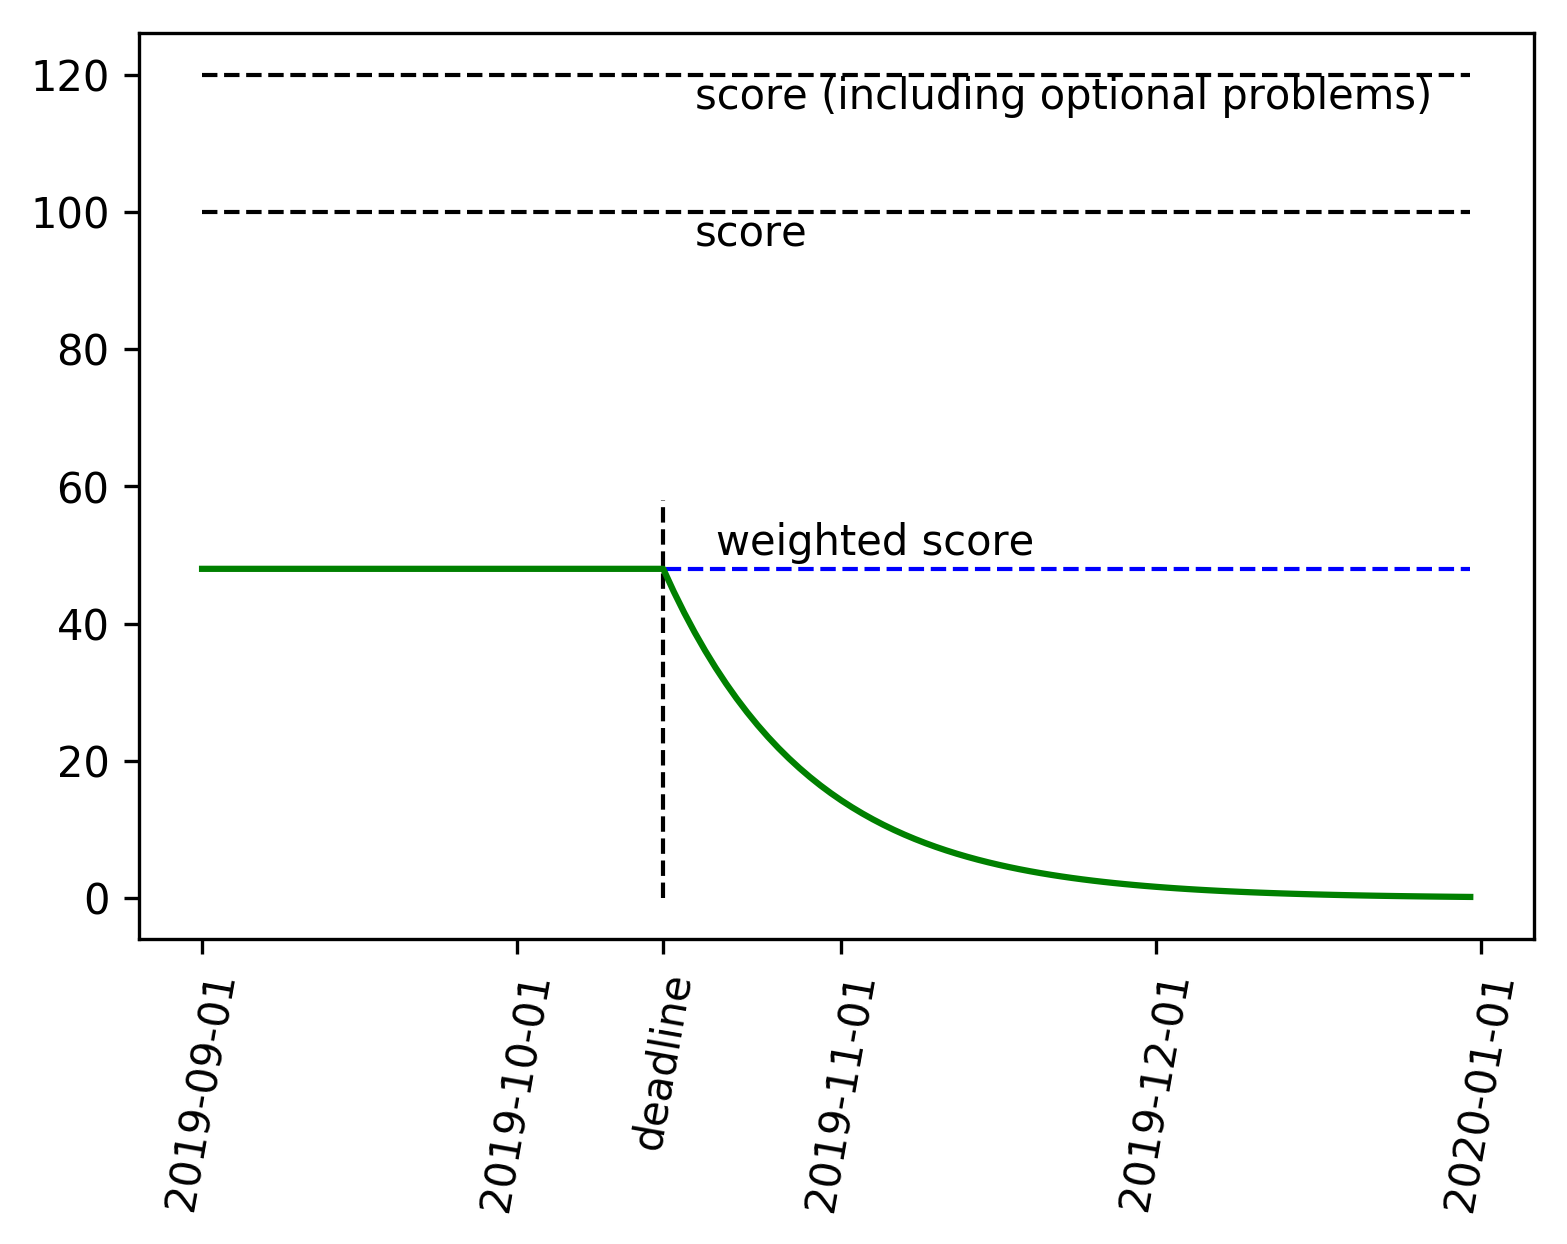
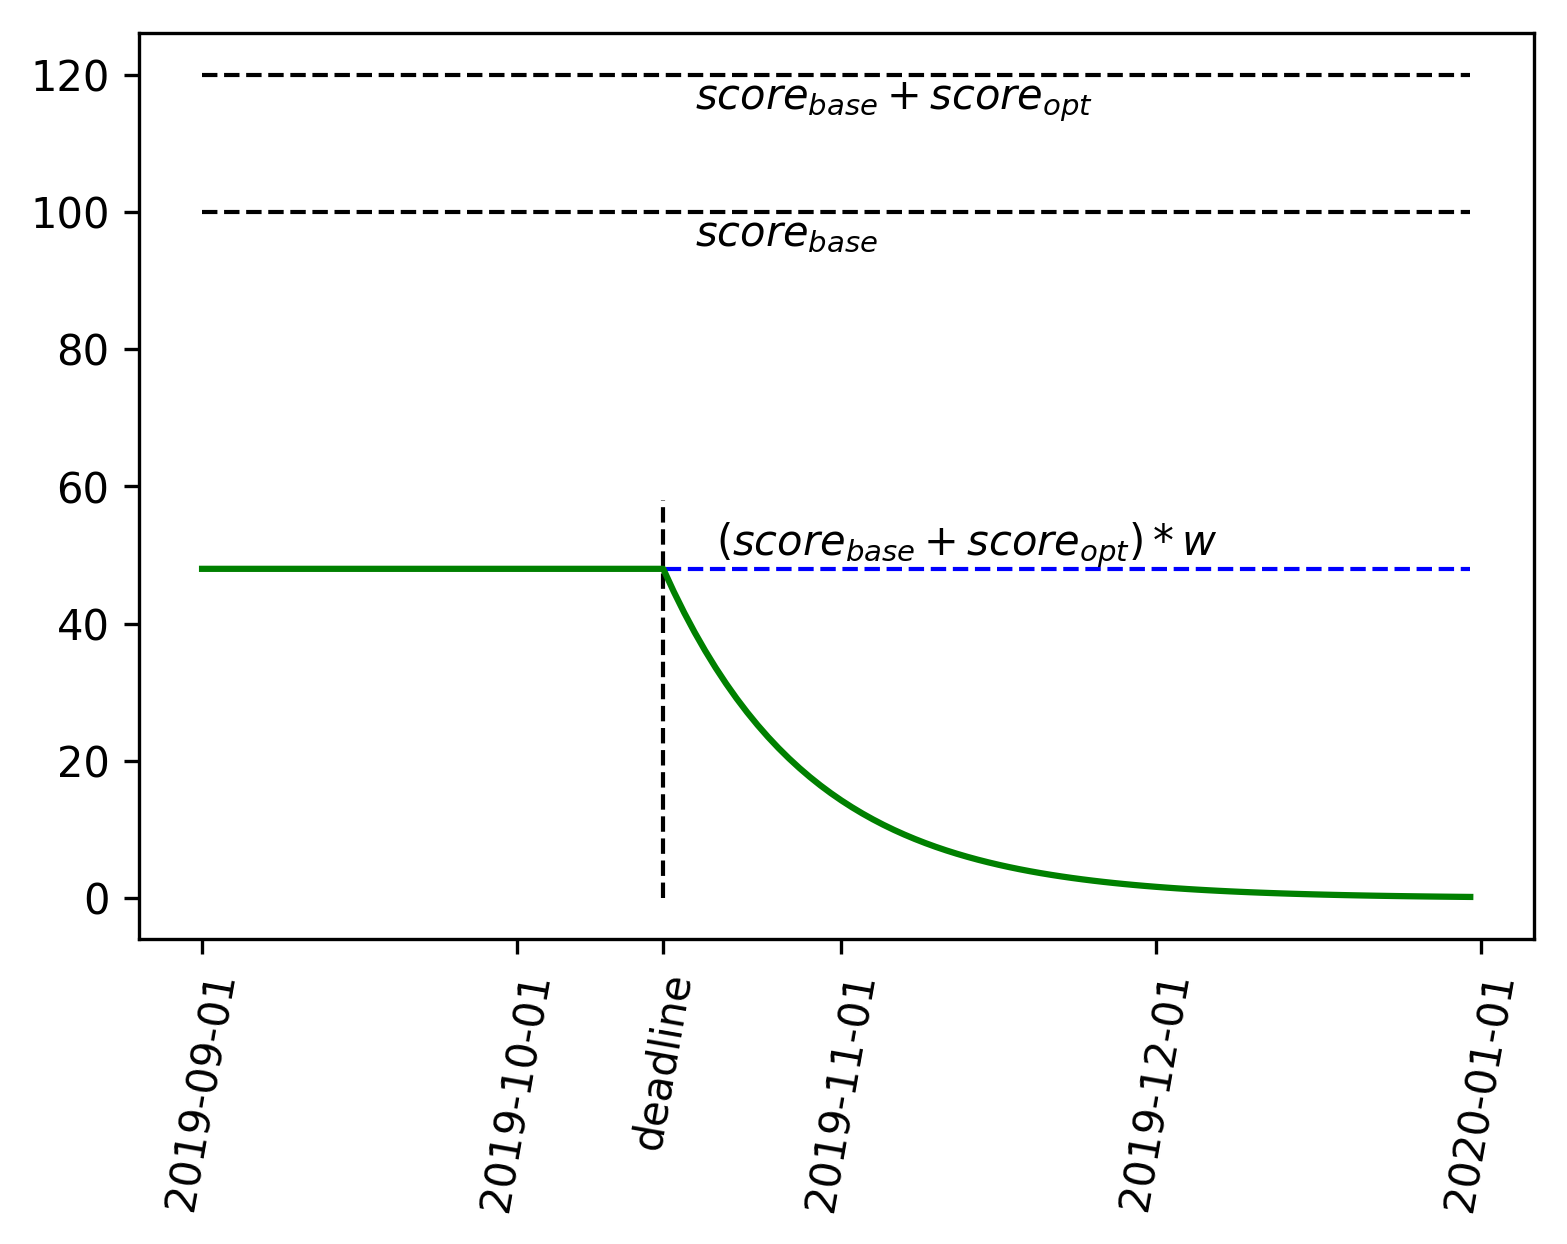
update homework policy

Changed region(s): [[0.4595, 0.0611, 0.919, 0.0916], [0.4595, 0.4277, 0.7658, 0.4582], [0.4595, 0.1833, 0.5514, 0.2138]]

diff --git a/homeworks_policy.md b/homeworks_policy.md
@@ -11,7 +11,9 @@
 
 Дальнейшее оценивание прогресса студента по каждому ДЗ производится по формуле:
 
-<p align='center'>(основной_балл + доп_баллы)*вес * exp(min(deadline-дата_сдачи, 0)/14)</p>
+<p align='center'>
+    <img src="https://latex.codecogs.com/svg.latex?S=\left(score_{base}+score_{opt}\right) \cdot w \cdot \exp \left(\frac{\min \left(deadline-date\_submitted, 0\right)}{14}\right)" />
+</p>
 
 Пояснение - на рис. 1.
 
